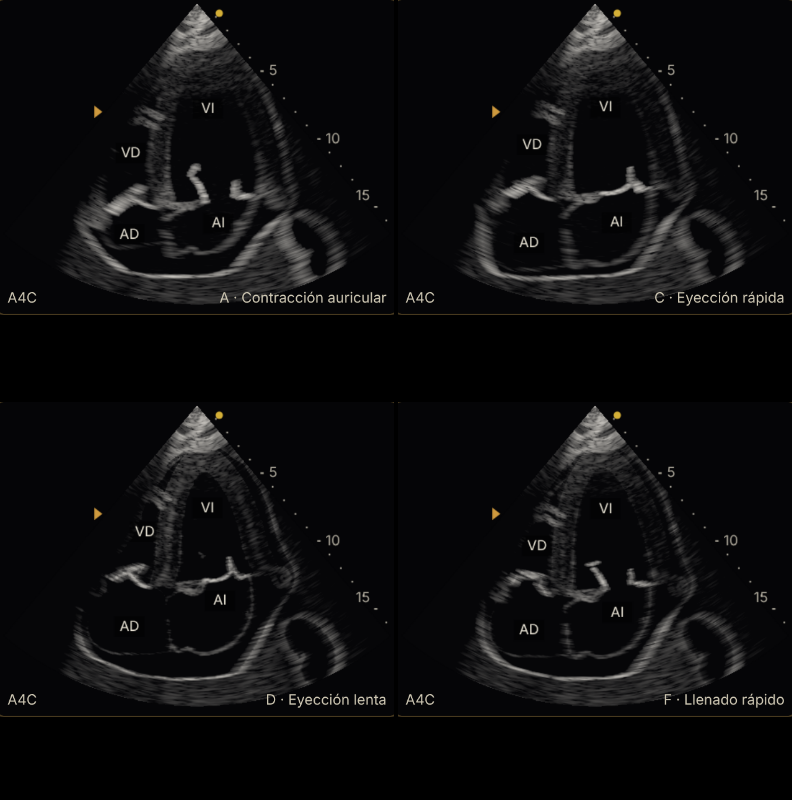
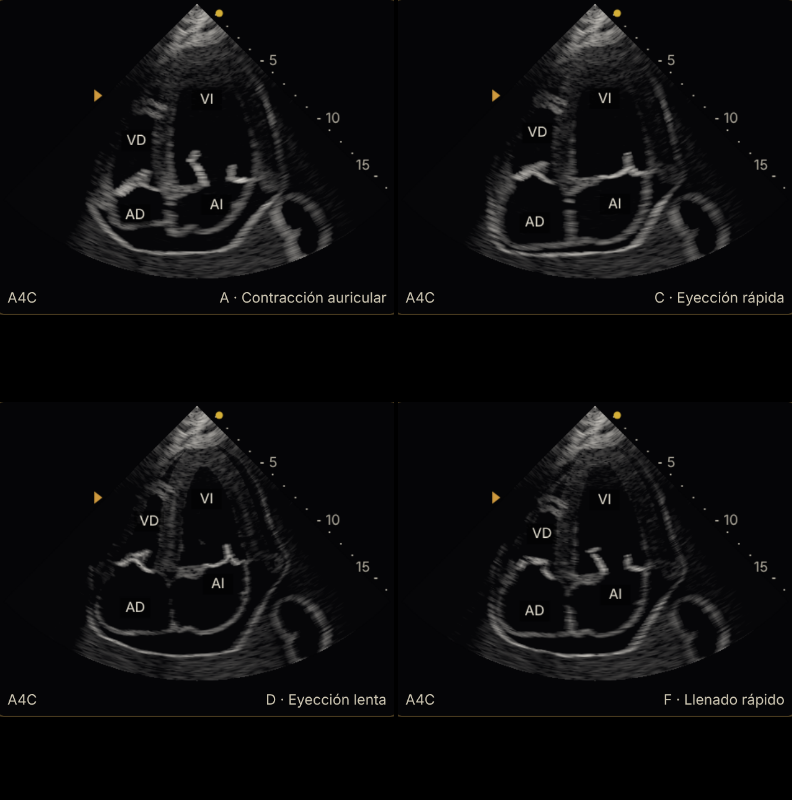
D6: pared libre del VD visible en el A4C (margen de apertura 0,2 rad y +4 dB en la pared del VD, dibujo nuevo)

diff --git a/js/data/eco-tejidos.js b/js/data/eco-tejidos.js
@@ -63,4 +63,4 @@ export const DB_IMAGEN = {
 // que el VI (db: dB extra sobre la pared de aurícula; moteadoDb: amplitud del grano). En la eco la pared auricular fina se ve gris
 // y granulosa, no como un alambre (idea de Lang 2015 / Mitchell 2019, que no dan el grosor): grosor y dB, ilustrativos.
 export const PARED_AURICULAR_NUEVO = { ancho: 2.5, db: -4, moteadoDb: 4, origen: 'ilustrativo' };
-export const PARED_VD_NUEVO = { db: 4, origen: 'ilustrativo' };
+export const PARED_VD_NUEVO = { db: 8, origen: 'ilustrativo' };

diff --git a/autonomo/bloques/mv-eco/paso6/d6-informe.md b/autonomo/bloques/mv-eco/paso6/d6-informe.md
@@ -1,0 +1,13 @@
+# D6 · pared libre del VD visible en el A4C — informe
+**Herramienta**: `herramientas/d6-pared-vd.mjs` (dibujo nuevo, telediástole; ángulo del plano frente a la apertura; brillo en el punto medio endo→epi).
+**Causa** (medida): ni profundidad ni plano; fue la **apertura** (margen de 0,07 rad entre la pared más lejana y el borde, dentro de la franja con caída lateral) y el **brillo** (PARED_VD_NUEVO 4 dB).
+| A4C td | apertura antes → después | margen pared VD–borde antes → después | brillo pared libre VD (0-255) antes → después | pared lateral VI |
+|---|---|---|---|---|
+| normal | 80° → 89° | 0,13 → 0,21 rad | 54 → 72 | 35 |
+| HP g=1 | 81° → 96° | −0,08 (11 % fuera) → 0,05 (0 % fuera) | 36 → 67 | 41 |
+| TEP g=1 | 82° → 97° | 0,03 → 0,16 rad | 46 → 81 | 51 |
+**Cambios** (solo dibujo nuevo): `ecografia.mjs` `ENCUADRE_A4C.margenRad` 0,07 → 0,2 (ilustrativo; Mitchell 2019, docs/mitchell-2019-ett-completa-ase.pdf#page=26: en el A4C se ven las paredes de cada cámara; no da ángulos) y `eco-tejidos.js` `PARED_VD_NUEVO.db` 4 → 8 (ilustrativo, el VD sigue más fino que el VI).
+**Capturas** (4 fases, 390 px): antes `scratchpad/antes/mov-{tep,normal}-a4c.png` (= las del commit anterior); después `autonomo/bloques/mv-eco/capturas-realismo/mov/mov-tep-a4c.png` y `mov-normal-a4c.png`. Vistas: en el TEP la pared libre entera queda dentro del sector, como arco de miocardio; en el normal se ve completa.
+**Pruebas**: ecografia + instantanea-dibujo + geometria + regional: 65/65. `jueces --geometria --dibujo nuevo`: 0 fallos de 147 (solo ❌ del `?v=`).
+**Lectura McConnell**: la pared media y el ápex del VD quedan dentro del sector y visibles; no he medido el contraste del movimiento sobre píxeles.
+**No comprobado / riesgo**: el sector normal pasa de 80° a 89° (el margen se aplica a todo A4C/SC4C nuevo; el SC4C no se ha mirado). El corazón se ve algo más pequeño en la imagen. HP g=1: el punto más lejano de la pared (−0,79 rad) queda a 0,05 del borde por una pequeña diferencia entre mi medida y la del encuadre. Brillo 72-81 medido sobre el modelo, no calibrado contra una eco real. Versión no tocada.

diff --git a/autonomo/bloques/mv-eco/capturas-realismo/mov/cifras-mov-doppler-parcial.md b/autonomo/bloques/mv-eco/capturas-realismo/mov/cifras-mov-doppler-parcial.md
@@ -1,6 +1,17 @@
 # Cifras de la app en cada captura de movimiento y Doppler (dibujo 2, 390 px)
 Origen: «monitor» = texto que enseña la app (#cv-l-vi, #cv-d-resultado, #cv-m-resultado, #cv-l-lat); «derivado» = cuenta sobre cifras del monitor; «anatomia.mjs» = tapseDeLatido(motor.ultimo) porque la app solo lo enseña al poner calibres.
 
+## mov-normal-a4c (normal, a4c; recortes izquierda→derecha, arriba→abajo: A, C, D, F)
+- A · telediástole: VI 119 mL · 10 mmHg · VD 138 mL · 6 mmHg · Ao 71 mmHg · AP 13 · rótulo «A · Contracción auricular»  _[monitor]_
+- C · sístole media: VI 88 mL · 96 mmHg · VD 119 mL · 18 mmHg · Ao 95 mmHg · AP 15 · rótulo «C · Eyección rápida»  _[monitor]_
+- D · fin de sístole: VI 47 mL · 103 mmHg · VD 77 mL · 20 mmHg · Ao 103 mmHg · AP 21 · rótulo «D · Eyección lenta»  _[monitor]_
+- F · llenado rápido: VI 71 mL · 4 mmHg · VD 87 mL · 2 mmHg · Ao 86 mmHg · AP 18 · rótulo «F · Llenado rápido»  _[monitor]_
+- VTD (VI, máximo del latido): 120 mL  _[motor.onda (volumen del VI)]_
+- VTS (VI, mínimo del latido): 45 mL  _[motor.onda (volumen del VI)]_
+- FEVI: 63 %  _[derivado (VTD−VTS)/VTD]_
+- Último latido: PA 105/66 (PAM 86) · FC 69 · GC 5.1 L/min · PVC 4  _[monitor]_
+- TAPSE: 23 mm  _[anatomia.mjs]_
+
 ## mov-tep-a4c (tep, g=1, a4c; recortes izquierda→derecha, arriba→abajo: A, C, D, F)
 - A · telediástole: VI 29 mL · 2 mmHg · VD 219 mL · 18 mmHg · Ao 57 mmHg · AP 23 · rótulo «A · Contracción auricular»  _[monitor]_
 - C · sístole media: VI 39 mL · 63 mmHg · VD 209 mL · 28 mmHg · Ao 62 mmHg · AP 28 · rótulo «C · Eyección rápida»  _[monitor]_
